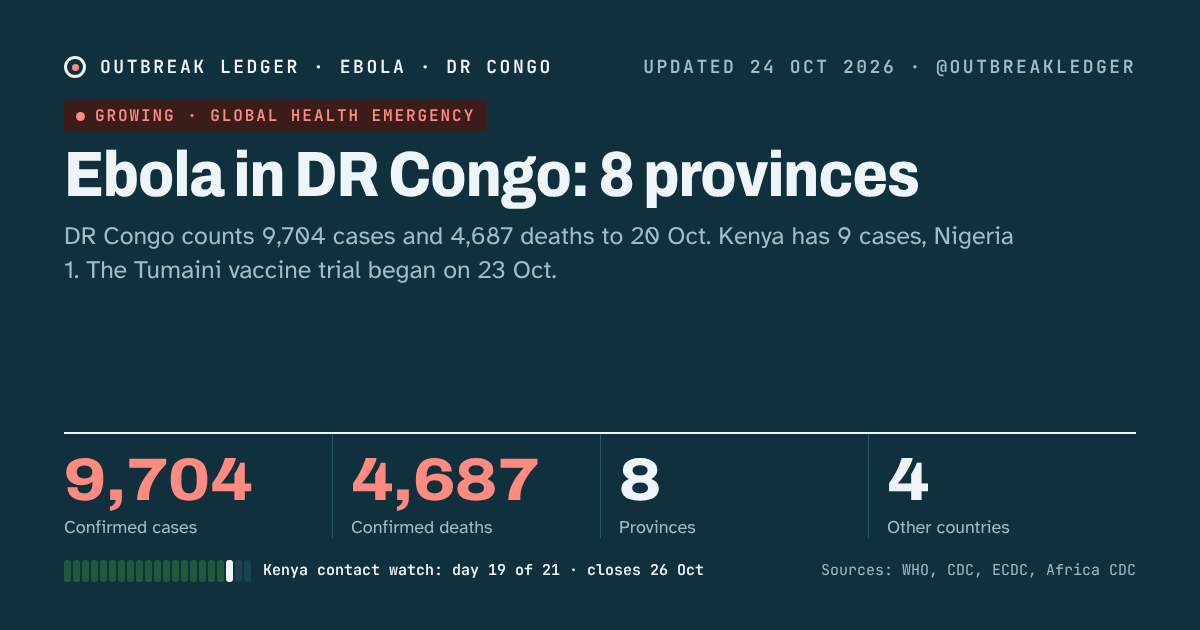
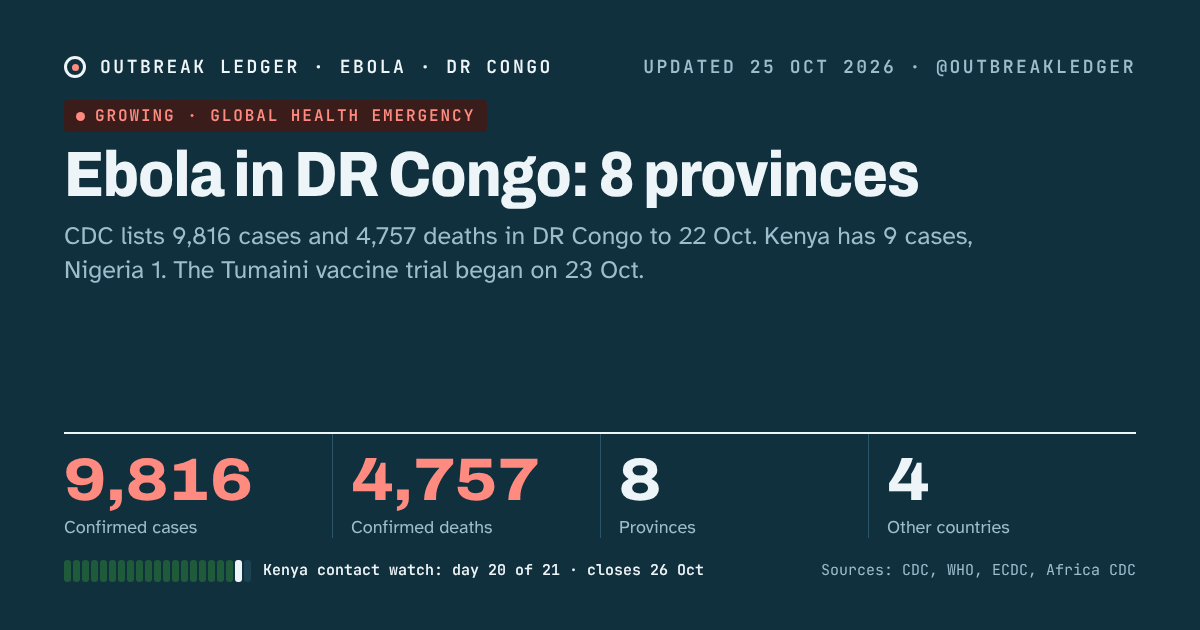
Trackers: Ebola CDC lists 9,816 cases and 4,757 deaths in DR Congo (as of 22 Oct); measles, mpox, cholera, dengue, marburg checked, no change
Claude-Session: https://claude.ai/code/session_01DjK934MGj4uKY77RiACNyU

diff --git a/site/ebola/share/latest-post.md b/site/ebola/share/latest-post.md
@@ -1,5 +1,5 @@
-Ebola (Bundibugyo): from 3 Nov, CDC will require all passengers on international flights to the US to attest they have not been in DR Congo in the past 21 days. DR Congo's health authorities count 9,704 confirmed cases and 4,687 deaths (20 Oct).
+Ebola (Bundibugyo): CDC lists 9,816 confirmed cases and 4,757 deaths in DR Congo as of 22 Oct, across eight provinces. Kenya has confirmed 9 cases and Nigeria 1 imported case. From 3 Nov, CDC requires an attestation from US-bound air passengers.
 
 https://nhlebe1.github.io/ai-scheduler-platform/ebola/
 
-Sources: CDC attestation order (22 Oct); NBC News and CNBC Africa (Reuters); DR Congo health authorities via TASS and Xinhua (20 Oct).
+Sources: CDC Ebola situation summary (figures as of 22 Oct); CDC attestation order (22 Oct); WHO DON622 (20 Oct).
